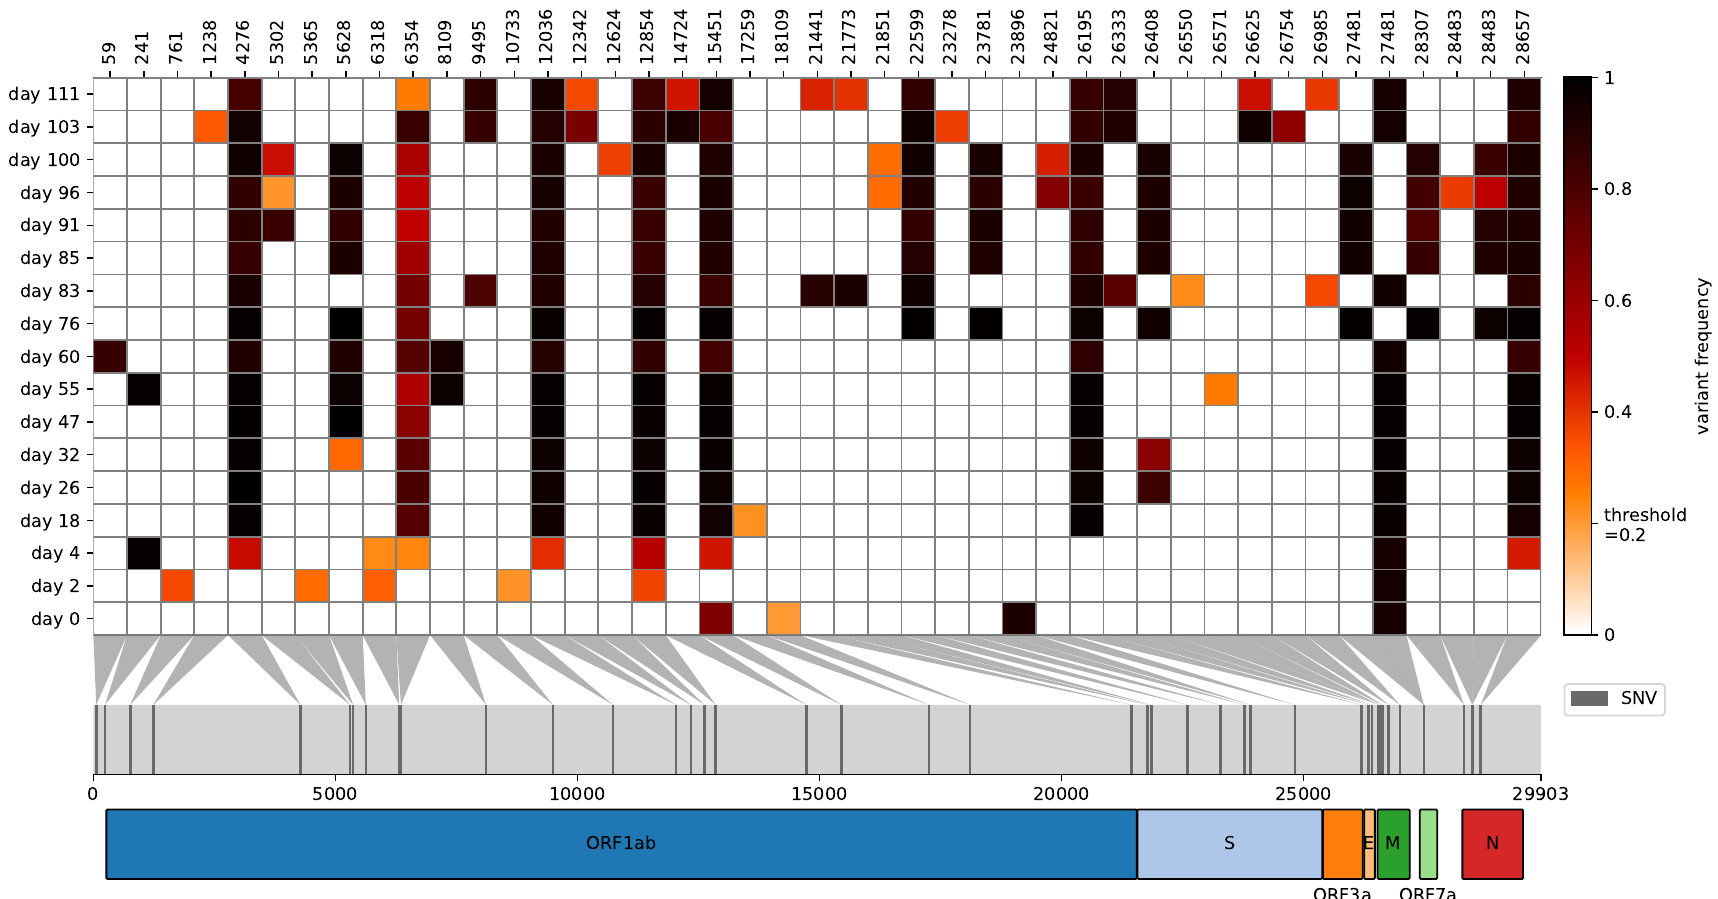
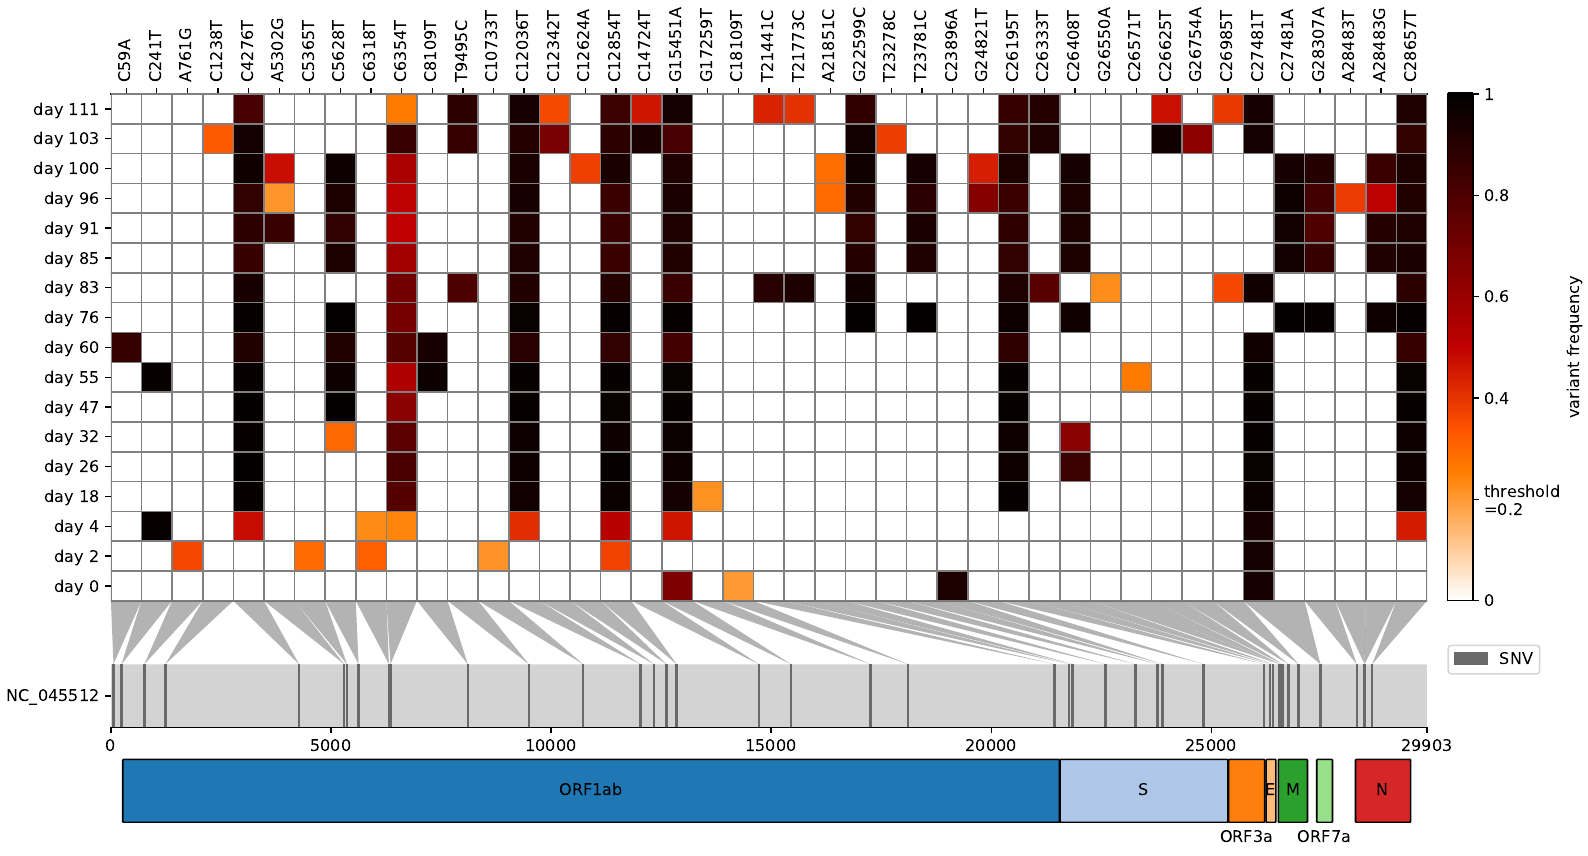
small changes

diff --git a/virheat/scripts/plotting.py b/virheat/scripts/plotting.py
@@ -67,7 +67,7 @@ def create_genome_vis(ax, genome_y_location, n_mutations, unique_mutations, geno
     return mutation_set
 
 
-def create_colorbar(threshold, cmap, track_y_location, n_samples):
+def create_colorbar(threshold, cmap, min_y_location, n_samples):
     """
     creates a custom colorbar and annotates the threshold
     """
@@ -85,12 +85,12 @@ def create_colorbar(threshold, cmap, track_y_location, n_samples):
     ticks.append(threshold)
     labels.append(f"threshold\n={threshold}")
 
-    cbar = plt.colorbar(cmap, label="variant frequency", pad=0, shrink=n_samples/(track_y_location+n_samples), anchor=(0.1, 1))
+    cbar = plt.colorbar(cmap, label="variant frequency", pad=0, shrink=n_samples/(min_y_location+n_samples), anchor=(0.1, 1))
     cbar.set_ticks(ticks)
     cbar.set_ticklabels(labels)
 
 
-def create_mutation_legend(mutation_set, track_y_location, n_samples):
+def create_mutation_legend(mutation_set, min_y_location, n_samples):
     """
     create a legend for the mutation type
     """
@@ -103,17 +103,17 @@ def create_mutation_legend(mutation_set, track_y_location, n_samples):
     if "SNV" in mutation_set:
         legend_patches.append(patches.Patch(color="dimgrey", label="SNV"))
 
-    plt.legend(bbox_to_anchor=(1.01, 0.95-(n_samples/(track_y_location+n_samples))), handles=legend_patches)
+    plt.legend(bbox_to_anchor=(1.01, 0.95-(n_samples/(min_y_location+n_samples))), handles=legend_patches)
 
 
-def create_axis(ax, n_mutations, track_y_location, n_samples, file_names, genome_end, genome_y_location, unique_mutations):
+def create_axis(ax, n_mutations, min_y_location, n_samples, file_names, genome_end, genome_y_location, unique_mutations, reference_name):
     """
     create the axis of the plot
     """
 
     # define plot limits
     ax.set_xlim(0, n_mutations)
-    ax.set_ylim(-track_y_location, n_samples)
+    ax.set_ylim(-min_y_location, n_samples)
     # define new ticks depending on the genome size
     xtick_dis = round(genome_end/6, -int(math.log10(genome_end/6))+1)
     xtick_labels = [0, xtick_dis, xtick_dis*2, xtick_dis*3, xtick_dis*4, xtick_dis*5, genome_end]
@@ -124,6 +124,8 @@ def create_axis(ax, n_mutations, track_y_location, n_samples, file_names, genome
     ax.set_xticks(xticks, xtick_labels)
     # set y axis labels
     y_ticks = [idx+0.5 for idx in range(0, len(file_names))]
+    y_ticks.append(-genome_y_location+genome_y_location/4)
+    file_names.append(reference_name)
     ax.set_yticks(y_ticks, file_names)
     # set second x axis for mut pos
     secxtick_labels = []
@@ -141,7 +143,7 @@ def create_axis(ax, n_mutations, track_y_location, n_samples, file_names, genome
     ax.spines["left"].set_visible(False)
 
 
-def create_gene_vis(ax, genes_with_mutations, n_mutations, y_size, n_tracks, genome_end, track_y_location, genome_y_location, colors_genes):
+def create_gene_vis(ax, genes_with_mutations, n_mutations, y_size, n_tracks, genome_end, min_y_location, genome_y_location, colors_genes):
     """
     create the vis for the gene
     """
@@ -150,7 +152,7 @@ def create_gene_vis(ax, genes_with_mutations, n_mutations, y_size, n_tracks, gen
     mult_factor = n_mutations/genome_end
 
     for idx, gene in enumerate(genes_with_mutations):
-        start = (mult_factor*genes_with_mutations[gene][0][0], -track_y_location+(n_tracks-genes_with_mutations[gene][1])*genome_y_location/4-genome_y_location/4)
+        start = (mult_factor*genes_with_mutations[gene][0][0], -min_y_location+(n_tracks-genes_with_mutations[gene][1])*genome_y_location/4-genome_y_location/4)
         stop = mult_factor*genes_with_mutations[gene][0][1]
         height = genome_y_location/2
         ax.add_patch(

diff --git a/virheat/command.py b/virheat/command.py
@@ -97,7 +97,7 @@ def main(sysargs=sys.argv[1:]):
         vcf_files = sorted(vcf_files, key=lambda x: data_prep.get_digit_and_alpha(os.path.basename(x)))
 
     # extract vcf info
-    frequency_lists, unique_mutations, file_names = data_prep.extract_vcf_data(vcf_files, threshold=args.threshold)
+    reference_name, frequency_lists, unique_mutations, file_names = data_prep.extract_vcf_data(vcf_files, threshold=args.threshold)
     frequency_array = data_prep.create_freq_array(unique_mutations, frequency_lists)
     if args.delete_common:
         frequency_array = data_prep.delete_common_mutations(frequency_array, unique_mutations)
@@ -108,8 +108,13 @@ def main(sysargs=sys.argv[1:]):
     genome_y_location = n_samples/4
 
     # gff3 data extraction
-    if args.gff3_path is not None:
-        gff3_info = data_prep.parse_gff3(args.gff3_path)
+    if args.gff3_path is not None and args.genome_length is not None:
+        sys.exit("\033[31m\033[1mERROR:\033[0m Do not provide the -g and -l argument simultaneously!")
+    elif args.gff3_path is not None:
+        gff3_info, gff3_ref_name = data_prep.parse_gff3(args.gff3_path)
+        # issue a warning if #CHROM and gff3 do not match
+        if gff3_ref_name not in reference_name and reference_name not in gff3_ref_name:
+            print("\033[31m\033[WARNING:\033[0m gff3 reference does not match the vcf reference!")
         genome_end = data_prep.get_genome_end(gff3_info)
         genes_with_mutations, n_tracks = data_prep.create_track_dict(unique_mutations, gff3_info)
         # define space for the genome vis tracks
@@ -138,7 +143,7 @@ def main(sysargs=sys.argv[1:]):
         colors_genes = [cmap_genes(i) for i in range(len(genes_with_mutations))]
         # plot gene track
         plotting.create_gene_vis(ax, genes_with_mutations, n_mutations, y_size, n_tracks, genome_end, min_y_location, genome_y_location, colors_genes)
-    plotting.create_axis(ax, n_mutations, min_y_location, n_samples, file_names, genome_end, genome_y_location, unique_mutations)
+    plotting.create_axis(ax, n_mutations, min_y_location, n_samples, file_names, genome_end, genome_y_location, unique_mutations, reference_name)
     plotting.create_colorbar(args.threshold, cmap_cells, min_y_location, n_samples)
     plotting.create_mutation_legend(mutation_set, min_y_location, n_samples)
 

diff --git a/virheat/scripts/data_prep.py b/virheat/scripts/data_prep.py
@@ -58,7 +58,7 @@ def extract_vcf_data(vcf_files, threshold=0):
         {x[0] for li in frequency_lists for x in li}, key=lambda x: int(x.split("_")[0])
     )
 
-    return frequency_lists, unique_mutations, file_names
+    return line.CHROM, frequency_lists, unique_mutations, file_names
 
 
 def create_freq_array(unique_mutations, frequency_lists):
@@ -117,6 +117,7 @@ def parse_gff3(file):
             if line.startswith("#") or line == "\n":
                 continue
             gff_values = line.split("\t")
+            gff3_ref_name = gff_values[0]
             # create keys
             if gff_values[2] not in gff3_dict:
                 gff3_dict[gff_values[2]] = {}
@@ -137,7 +138,7 @@ def parse_gff3(file):
 
     gff3_file.close()
 
-    return gff3_dict
+    return gff3_dict, gff3_ref_name
 
 
 def get_genome_end(gff3_dict):
